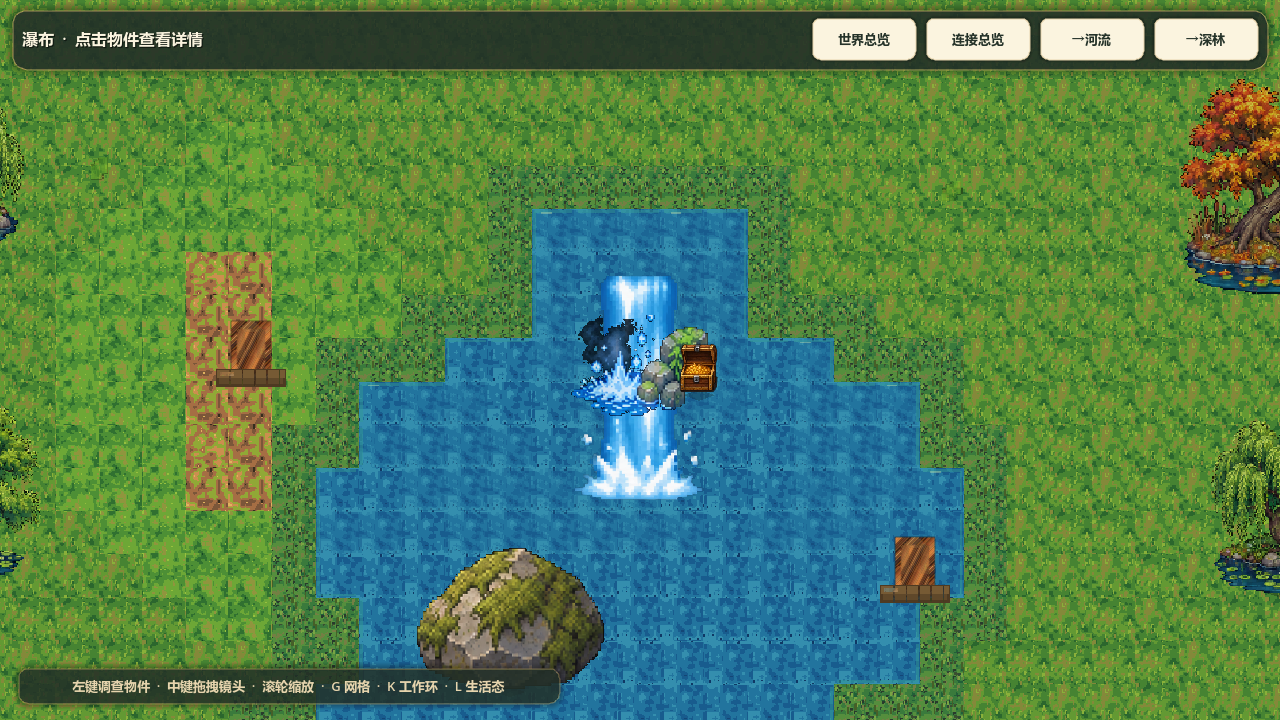
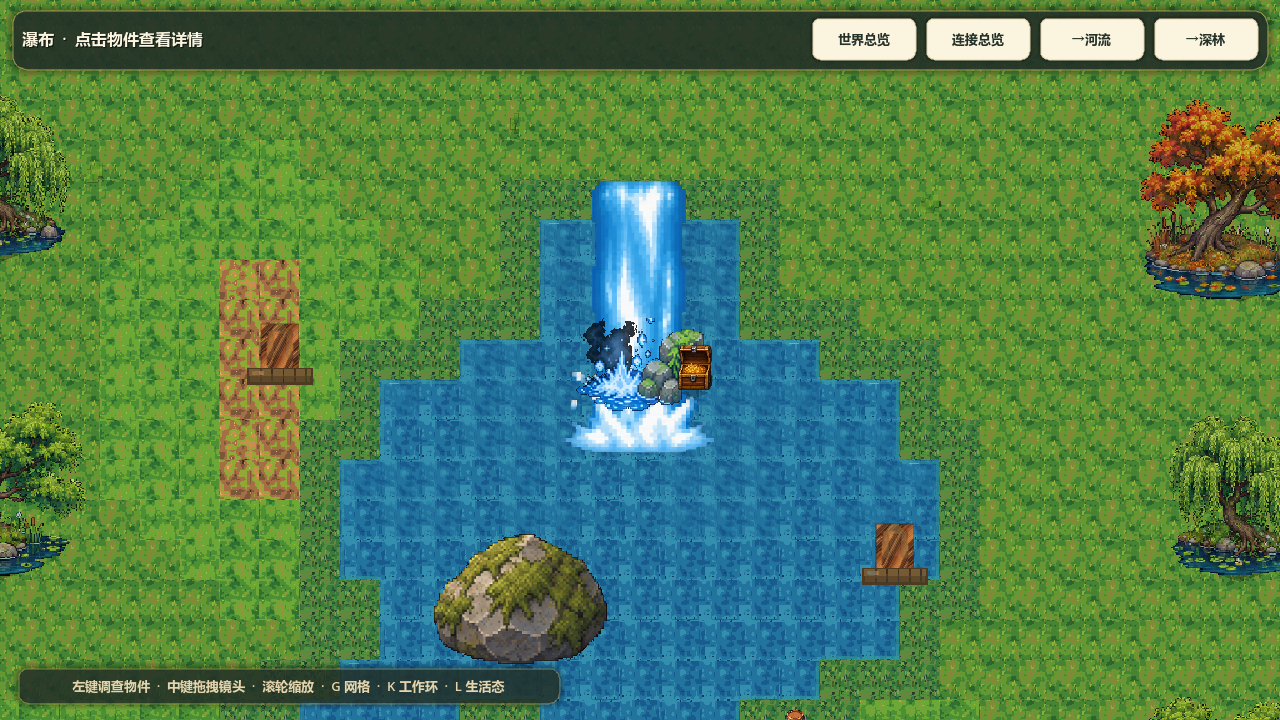
Polish waterfall anim ownership and on-screen scale after review.
Reparent splash into hotspot Visual, widen cascade scale, and tighten QA frame glob.

diff --git a/dream/tools/qa_interaction_frames.py b/dream/tools/qa_interaction_frames.py
@@ -74,7 +74,9 @@ def main() -> int:
         "work_pose_smith": sorted((ROOT / "assets/sprites/npc/work_poses/smith").glob("pose_*.png")),
         "work_pose_stall": sorted((ROOT / "assets/sprites/npc/work_poses/stall").glob("pose_*.png")),
         "work_pose_cook": sorted((ROOT / "assets/sprites/npc/work_poses/cook").glob("pose_*.png")),
-        "waterfall_water": sorted((ROOT / "assets/sprites/props").glob("waterfall_water_*.png")),
+        "waterfall_water": sorted(
+            (ROOT / "assets/sprites/props").glob("waterfall_water_0[0-5].png")
+        ),
     }
     for label, paths in groups.items():
         assert_normalized_contract(paths, label)
@@ -109,6 +111,8 @@ def main() -> int:
         raise AssertionError("waterfall still spawns mist")
     if "WaterfallAnim" not in waterfall or "waterfall_water_%02d" not in waterfall:
         raise AssertionError("waterfall missing animated water loop wiring")
+    if "splash.reparent(vis)" not in waterfall:
+        raise AssertionError("waterfall splash not reparented into hotspot Visual")
 
     print(
         f"GREEN interaction-frame QA ({len(groups)} groups, single water clock, "

diff --git a/dream/docs/GOAL_G8_WATERFALL_ANIM_EVIDENCE.md b/dream/docs/GOAL_G8_WATERFALL_ANIM_EVIDENCE.md
@@ -15,7 +15,8 @@
 | Node | `/root/Waterfall/YSortRoot/瀑布/Visual/WaterfallAnim` class `AnimatedSprite2D` |
 | Animation | `fall` loop @ 8 fps; frames `waterfall_water_00..05` |
 | Playing | `is_playing() == true`; `get_frame()` observed advancing (e.g. frame 5) |
-| Hotspot | `瀑布` at ~(656, 396); Visual owns cascade |
+| Hotspot | `瀑布` at ~(656, 396); Visual owns cascade **and splash** |
+| Scale | `WaterfallAnim.scale = (0.55, 0.55)` after review widen |
 | Capture | `docs/evidence/g8_waterfall_anim.png` |
 
 ## Assets / QA
